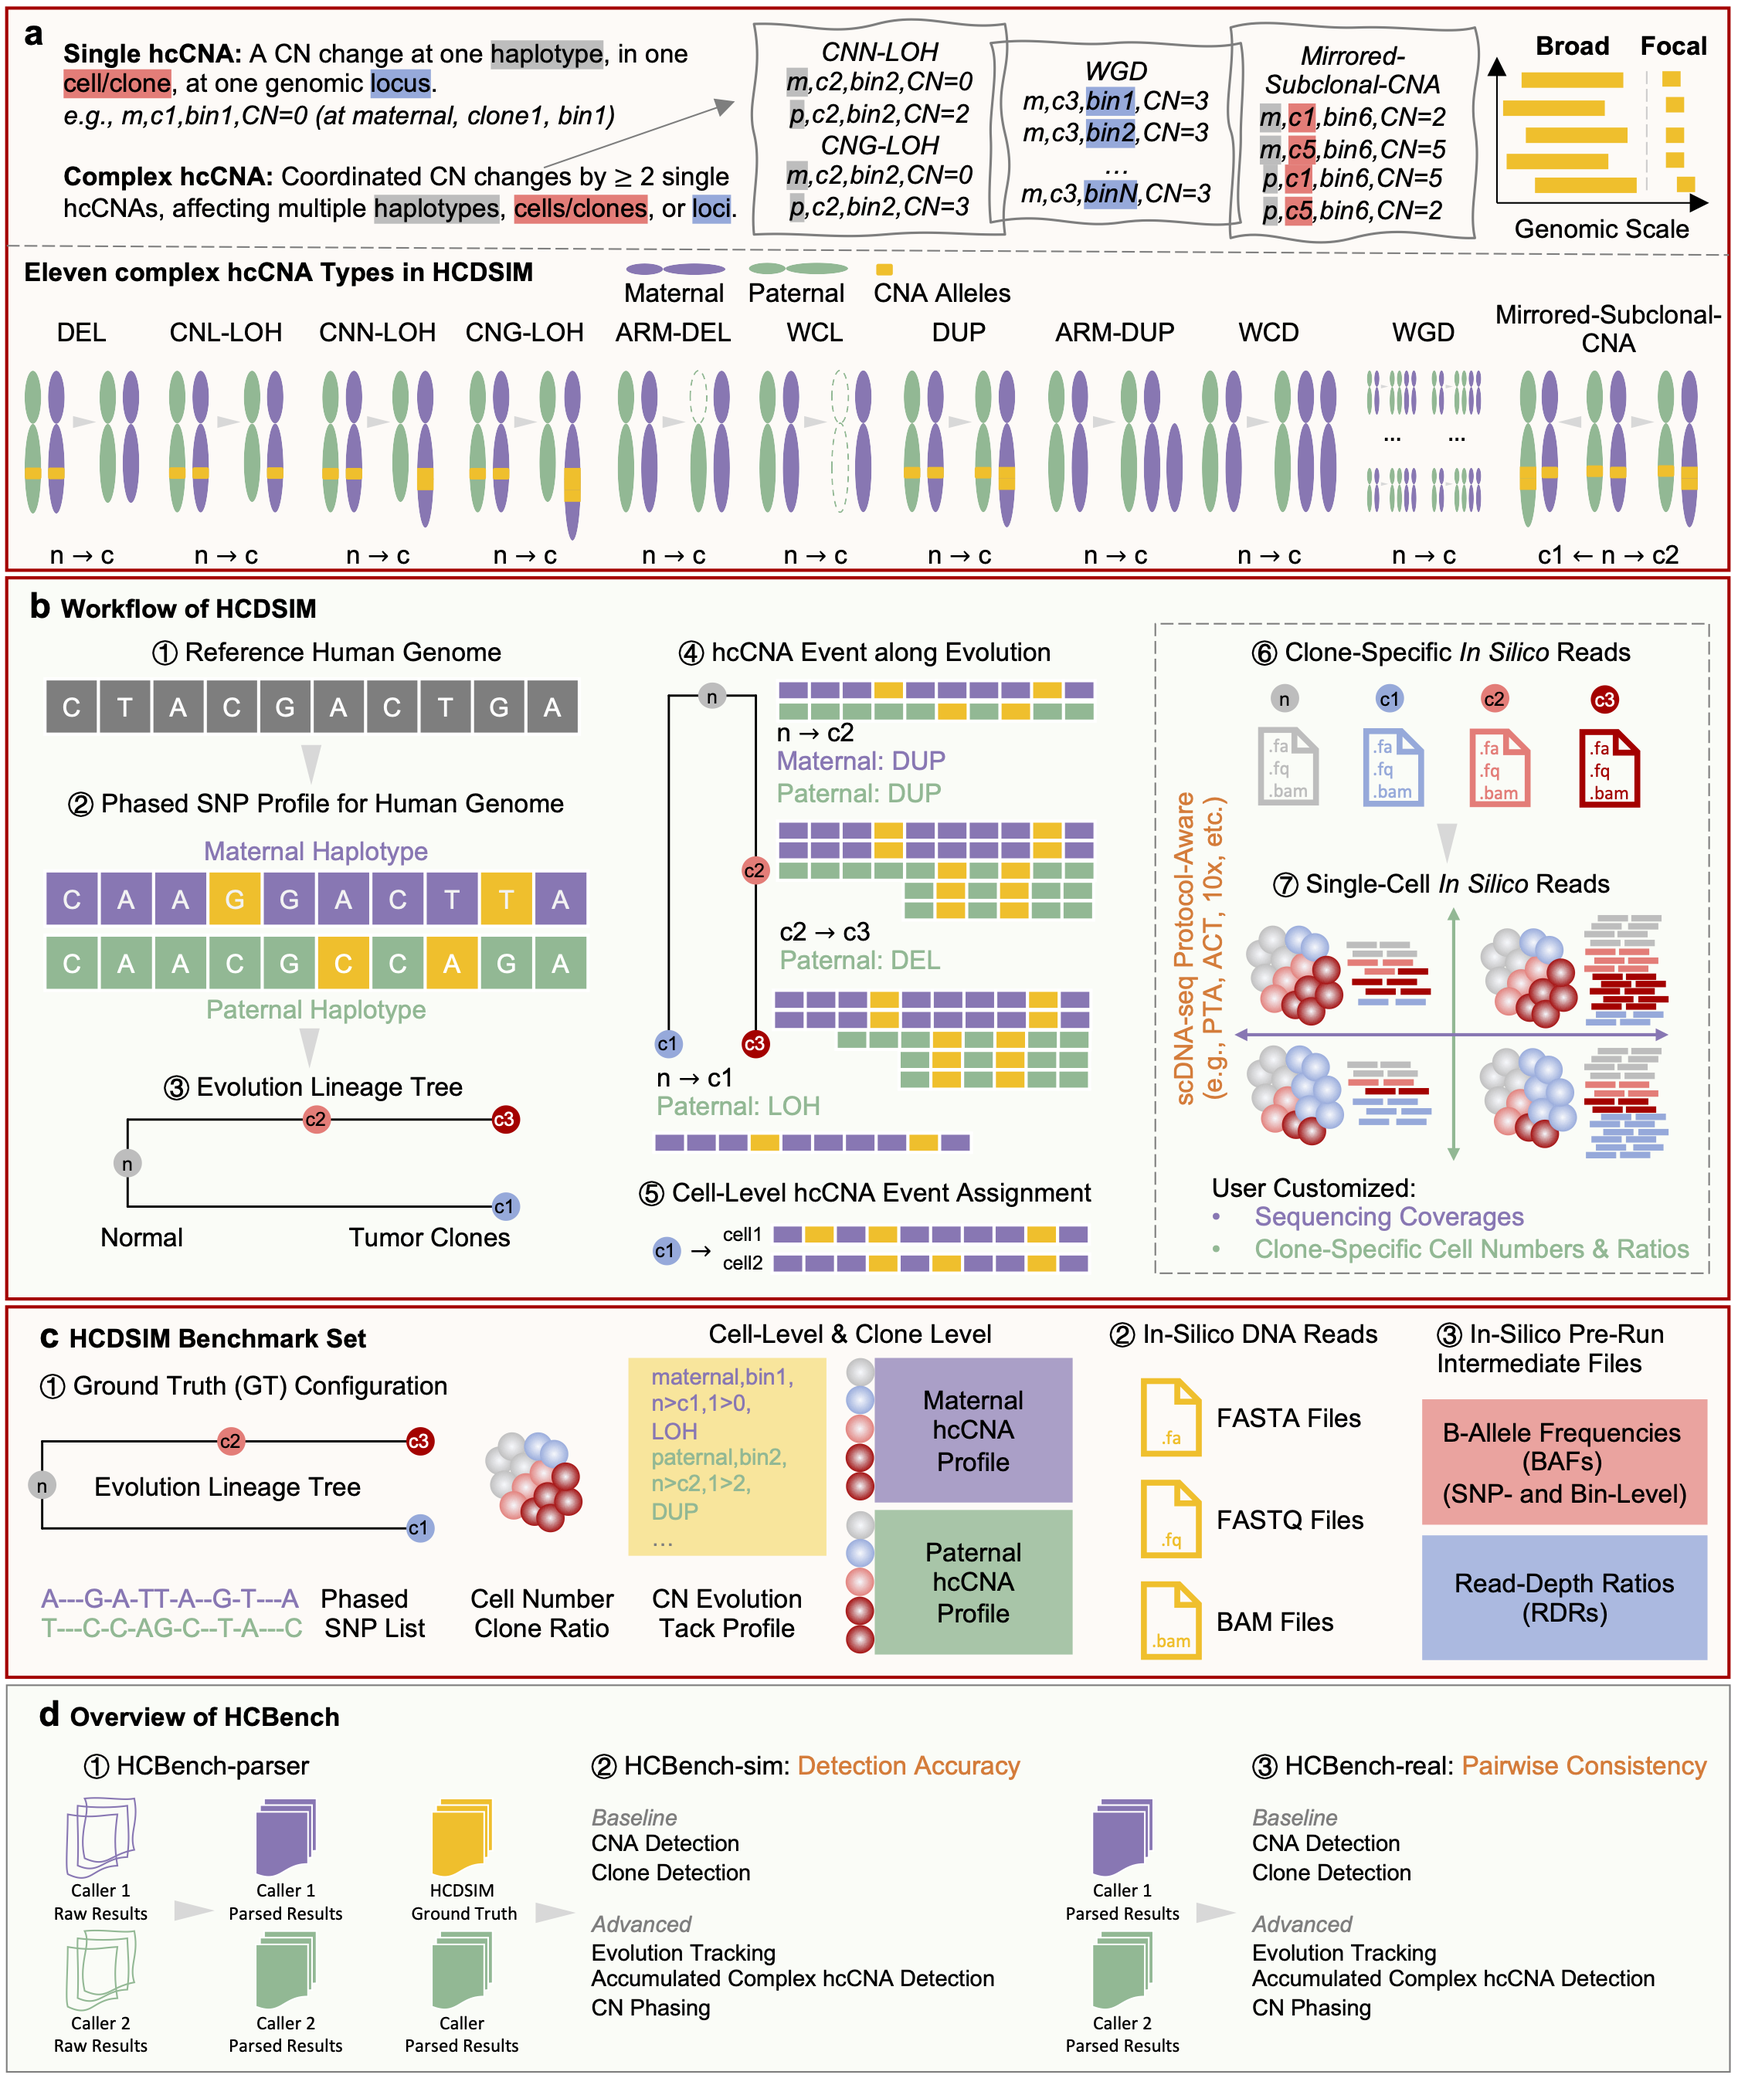
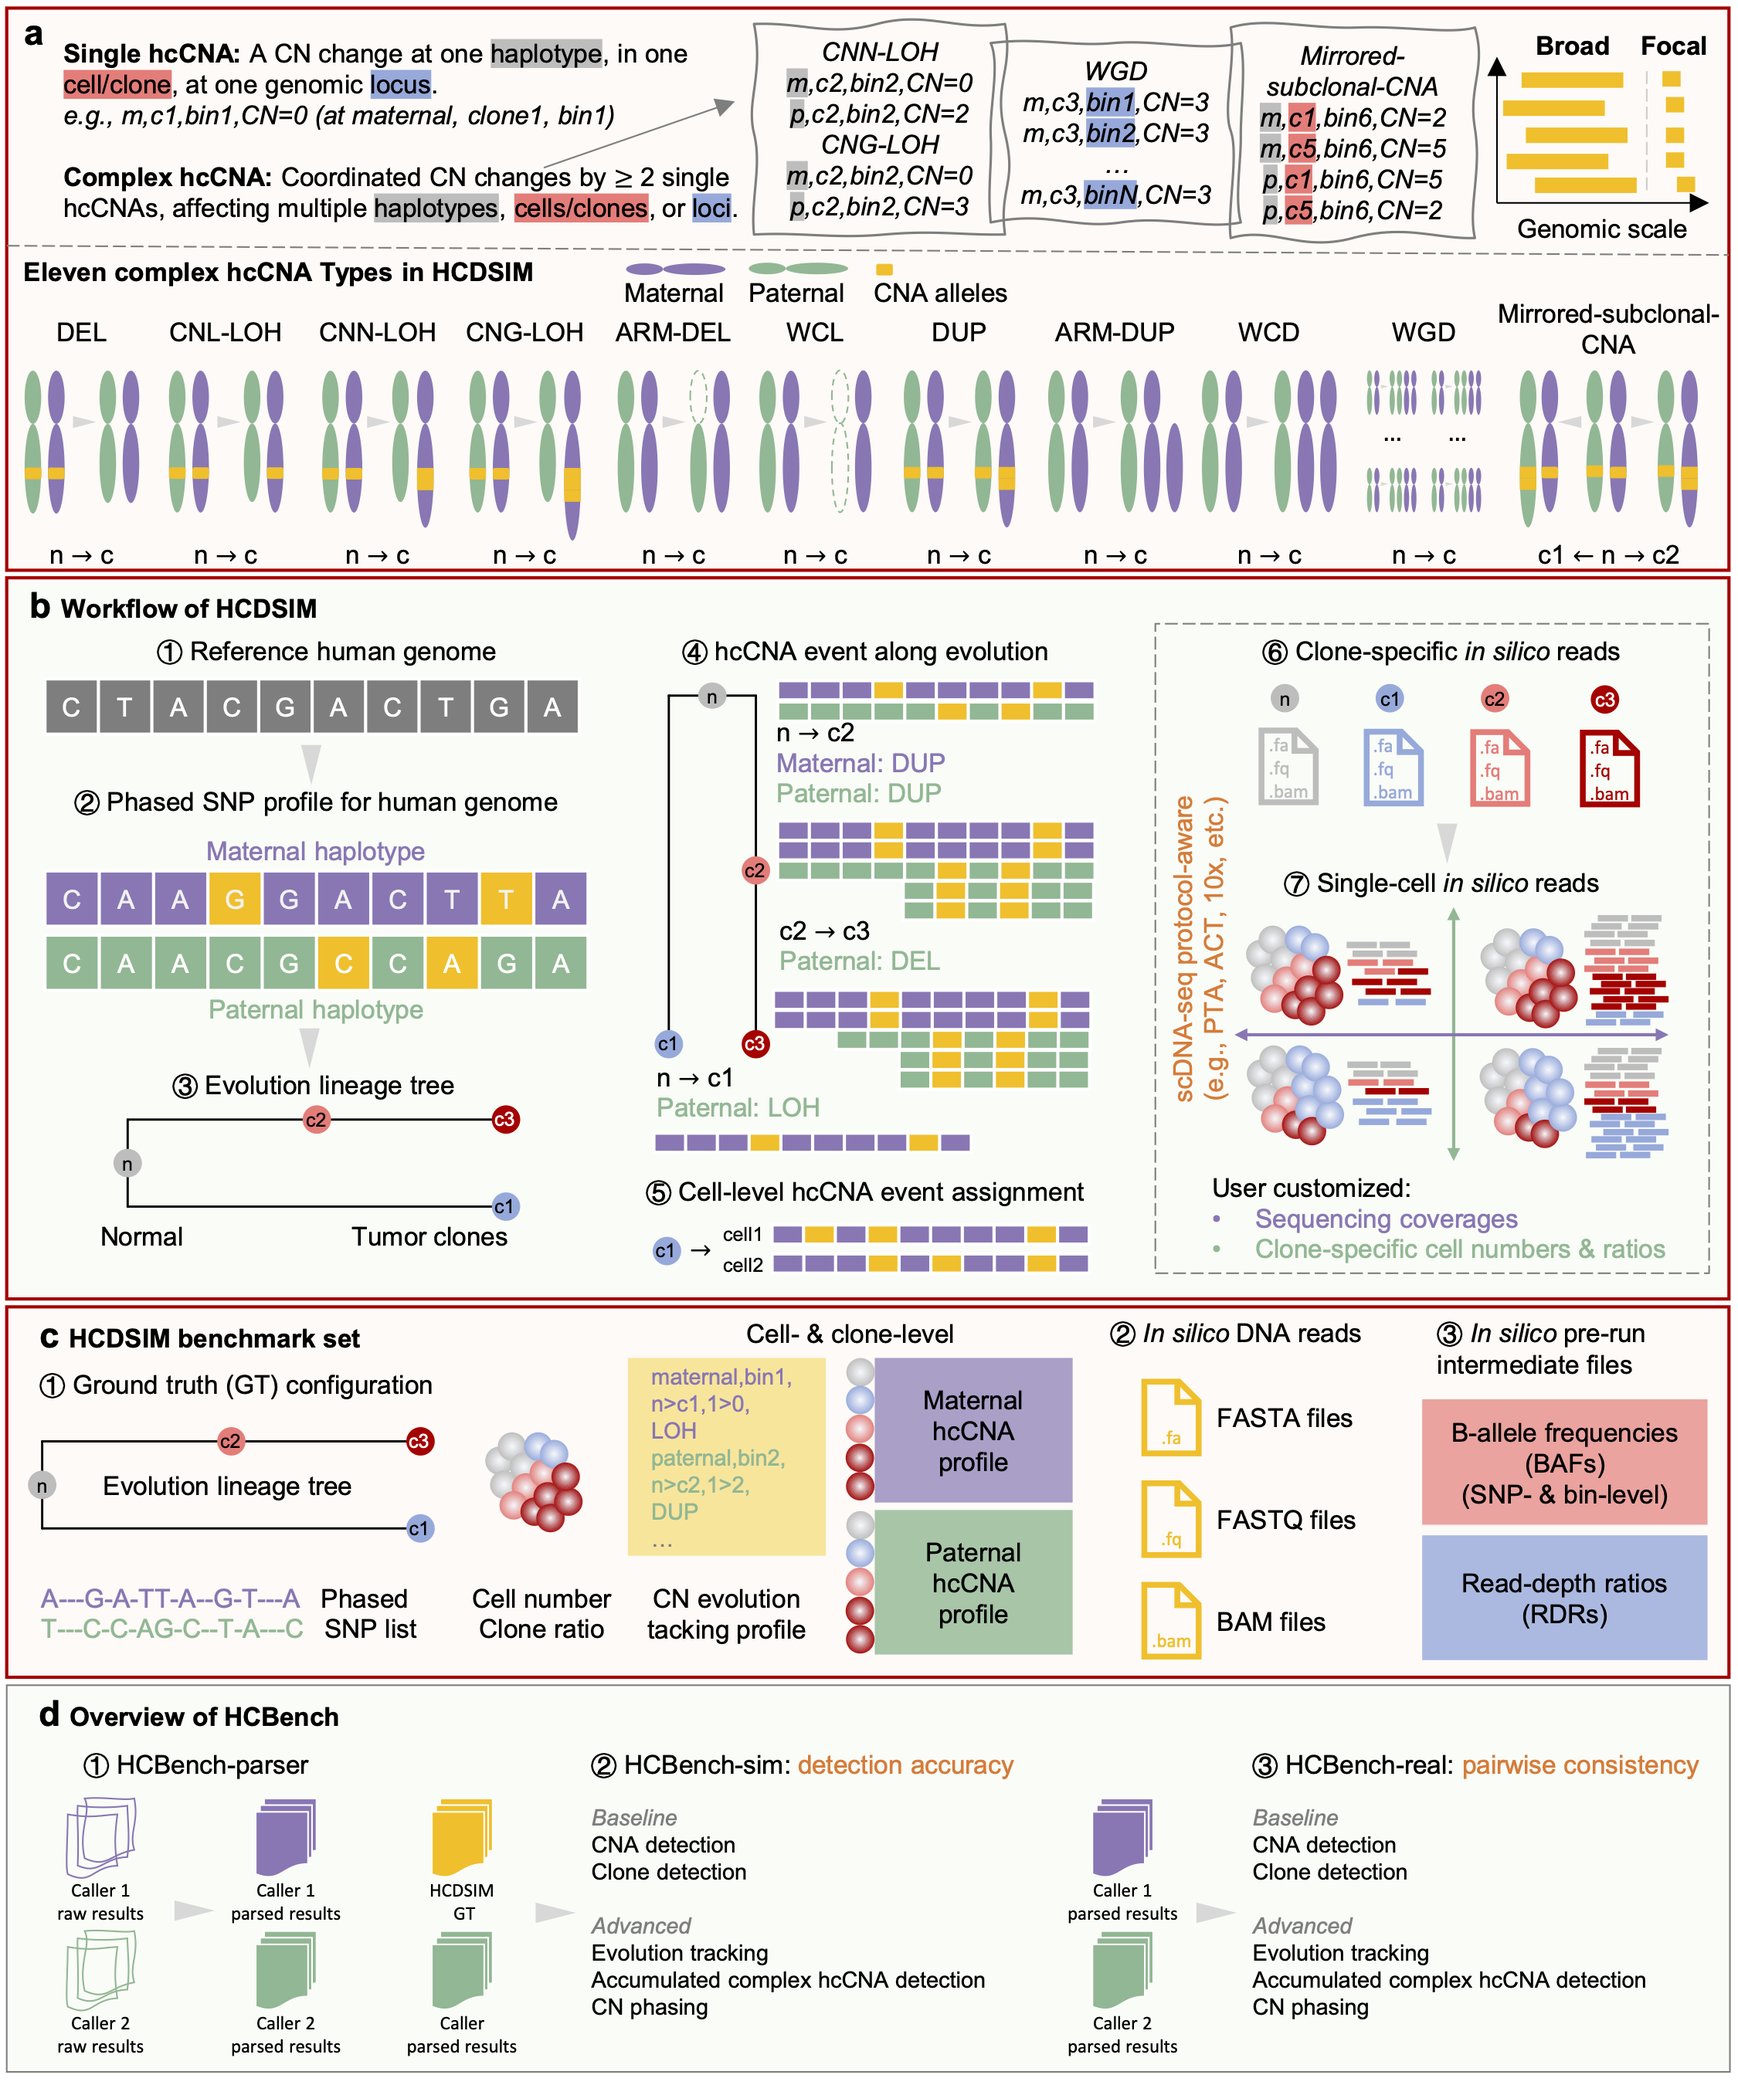
update readme

diff --git a/README.md b/README.md
@@ -1,19 +1,136 @@
-[![Stars](https://img.shields.io/github/stars/xikanfeng2/hcdsim?logo=GitHub&color=yellow)](https://github.com/xikanfeng2/hcdsim/stargazers)
-[![PyPI](https://img.shields.io/pypi/v/hcdsim?logo=PyPI)](https://pypi.org/project/hcdsim/)
-[![Downloads](https://static.pepy.tech/badge/hcdsim)](https://pepy.tech/project/hcdsim)
-[![Docs](https://readthedocs.org/projects/hcdsim/badge/)](https://hcdsim.readthedocs.io)
+<p align="left">
+  <a href="https://pypi.org/project/hcdsim/"><img src="https://img.shields.io/pypi/v/hcdsim" alt="PyPI"></a>
+  <a href="https://pepy.tech/project/hcdsim"><img src="https://static.pepy.tech/badge/hcdsim" alt="Downloads"></a>
+  <a href="https://hcdsim.readthedocs.io"><img src="https://readthedocs.org/projects/hcdsim/badge/?version=latest" alt="Docs"></a>
+  <!-- <a href="https://doi.org/10.5281/zenodo.23060387"><img src="https://zenodo.org/badge/DOI/10.5281/zenodo.23060387.svg" alt="DOI"></a> -->
+  <a href="https://github.com/BioThinkLab/HCDSIM/blob/main/LICENSE"><img src="https://img.shields.io/badge/license-MIT-blue.svg" alt="License: MIT"></a>
+  <a href="https://github.com/BioThinkLab/HCDSIM/stargazers"><img src="https://img.shields.io/github/stars/BioThinkLab/HCDSIM?style=social" alt="Stars"></a>
+</p>
 
-# HCDSIM: A Single-Cell Genomics Simulator with Haplotype- and Clone-Specific Copy Number Annotation.
+# HCDSIM
 
-HCDSIM: A Single-Cell Genomics Simulator with Haplotype- and Clone-Specific Copy Number Annotation. Read the full [documentation] here.
+**A Single-Cell Genomics Simulator with Haplotype- and Clone-Specific Copy Number Annotation**
 
-![HCDSIM Workflow](docs/images/HCDSIM_Figure1.png)
+HCDSIM simulates single-cell DNA sequencing (scDNA-seq) data with ground-truth (GT) **haplotype-, cell/clone-, and locus-specific copy number alterations (hcCNAs)**. It models **eleven complex hcCNA types** along a tumor clonal lineage tree, records when each event arises and how it is inherited, and outputs reads (FASTA/FASTQ/BAM) and intermediate files (phased SNPs, BAFs, RDRs) in the formats that existing hcCNA callers take as input.
 
-<!-- ## Citation
+Together with its companion benchmarking framework **[HCBench](https://github.com/compbioclub/HCBench)**, HCDSIM provides a foundation for developing and evaluating hcCNA callers.
 
-If you use `hcdsim` in your work, please cite the `hcdsim` publication as follows:
+![HCDSIM and HCBench overview](docs/images/HCDSIM_Figure1.png)
 
-> to do -->
+## Key features
 
+- 🧬 **Eleven complex hcCNA types**, covering
+  - *CN loss*: DEL, CNL-LOH, CNN-LOH, CNG-LOH, ARM-DEL, WCL
+  - *CN gain*: DUP, ARM-DUP, WCD, WGD
+  - *Mirror-like*: mirrored-subclonal-CNA (reciprocal CN swaps between haplotypes across clones)
+  - at focal (< 3 Mb), medium (3–10 Mb), and broad (> 10 Mb) scales
+- 🌳 **Clonal evolution**: lineage trees built with a beta splitting model (tunable from balanced to comb-like trees), with three clone-size allocation modes: *uniform*, *ancestral dominance*, and *evolved dominance*
+- ⏱ **Event onset tracking**: time-stamped logs of where each complex hcCNA first appears and whether descendant clones inherit it
+- 👥 **Intra-clonal heterogeneity**: optional cell-specific private events (DEL, LOH, DUP) on top of the clone profile
+- 📈 **Protocol-aware coverage bias**: coverage non-uniformity controlled by Lorenz-curve parameters to mimic PTA, ACT, 10x Genomics, and other protocols
+- 📦 **Caller-ready outputs**: phased germline SNPs, normal cells, FASTQ, clone-level, cell-level, and barcoded BAMs, plus SNP- and bin-level BAFs and RDRs. These are the inputs required by CHISEL, Alleloscope, SIGNALS, SEACON, and CNRein
+- ⚡ **Lightweight intermediate files**: start developing a caller from BAF/RDR matrices without heavy FASTQ/BAM processing
 
-[documentation]: https://hcdsim.readthedocs.io
+## Installation
+
+```bash
+pip install hcdsim
+```
+
+HCDSIM calls the following external tools, which must be available in your `PATH`:
+
+- [wgsim](https://github.com/lh3/wgsim) (tested with v1.13)
+- [BWA](https://github.com/lh3/bwa) (tested with v0.7.17)
+- [samtools](https://github.com/samtools/samtools)
+
+<!-- TODO: confirm the dependency list and Python version requirement -->
+
+## Quick start
+
+Run the full pipeline:
+
+```python
+from hcdsim import HCDSIM
+
+sim = HCDSIM(ref_genome='hg38.fa', clone_no=10, cell_no=100, outdir='./demo')
+sim.sim()
+```
+
+or from the command line with `hcdsim sim` (see `hcdsim sim --help`).
+
+See the [documentation and tutorials](https://hcdsim.readthedocs.io) for full usage.
+
+## Benchmarking with HCBench
+
+**[HCBench](https://github.com/compbioclub/HCBench)** ([tutorials](https://compbioclub.github.io/HCBench)) is a standardized framework for benchmarking single-cell allele-specific (acCNA) and haplotype-specific (hcCNA) callers. It has three modules:
+
+- **HCBench-parser**: converts raw caller outputs (CHISEL, Alleloscope, SIGNALS, SEACON, CNRein, ...) into standardized read-count/RDR/BAF matrices, acCNA/hcCNA profiles, cell- and clone-level profiles, and clone labels
+- **HCBench-sim**: scores callers against HCDSIM ground truth
+- **HCBench-real**: measures pairwise consistency between callers, and fit to observed read depth and allelic signal, on real data without ground truth
+
+Both evaluation modules cover five perspectives (20 evaluation questions):
+**CNA detection** · **clone detection** · **evolution tracking** · **accumulated complex hcCNA detection** · **CN phasing**
+
+### Benchmark datasets
+
+| Dataset | Design |
+|---|---|
+| **hcCNA-bench** | 10 clones (1 normal + 9 tumor), 1,000 cells, evolved dominance, coverages 0.01x / 0.02x / 0.05x / 0.1x / 0.2x |
+| **hcCNA-bench-tree** | 5 datasets at 0.02x, 1,000 cells: 10-clone and 6-clone trees under uniform, ancestral, and evolved dominance modes |
+
+All simulated datasets, including GT haplotype- and clone-specific CN profiles and single-cell reads, are available on Zenodo: [10.5281/zenodo.21167430](https://doi.org/10.5281/zenodo.21167430).
+
+## Citation
+
+> 📝 The manuscript is currently under review. This section will be updated once it is published.
+
+If you use HCDSIM, HCBench, or the hcCNA-bench datasets, please cite:
+
+```bibtex
+@article{feng2026hcdsim,
+  title   = {Benchmarking of haplotype- and clone-specific detection callers of complex copy number alterations in single-cell DNA-sequencing with HCDSIM and HCBench},
+  author  = {Feng, Xikang and Jiang, Anna and Peng, Sisi and Jin, Qiangguo and He, Liang and Chen, Lingxi},
+  journal = {TBD},
+  year    = {2026},
+  doi     = {TBD}
+}
+```
+
+Software and data archives:
+
+```bibtex
+@software{hcdsim_zenodo,
+  author    = {Feng, Xikang and Jiang, Anna and Peng, Sisi and Jin, Qiangguo and He, Liang and Chen, Lingxi},
+  title     = {HCDSIM: A single-cell genomics simulator with haplotype- and clone-specific copy number annotation},
+  year      = {2026},
+  publisher = {Zenodo},
+  doi       = {10.5281/zenodo.23060387}
+}
+
+@software{hcbench_zenodo,
+  author    = {Feng, Xikang and Jiang, Anna and Peng, Sisi and Jin, Qiangguo and He, Liang and Chen, Lingxi},
+  title     = {HCBench: A standardized benchmarking framework for single-cell haplotype- and clone-specific copy number alteration caller},
+  year      = {2026},
+  publisher = {Zenodo},
+  doi       = {10.5281/zenodo.23386948}
+}
+
+@dataset{hccnabench_zenodo,
+  author    = {Feng, Xikang and Jiang, Anna and Peng, Sisi and Jin, Qiangguo and He, Liang and Chen, Lingxi},
+  title     = {hcCNA-bench and hcCNA-bench-tree: Benchmark datasets for evaluating haplotype- and clone-specific detection of complex copy number alterations in single-cell DNA sequencing},
+  year      = {2026},
+  publisher = {Zenodo},
+  doi       = {10.5281/zenodo.21167430}
+}
+```
+
+## Contact
+
+- Xikang Feng: fxk@nwpu.edu.cn
+- Lingxi Chen: lingxi.chen@cityu.edu.hk
+
+Bug reports and feature requests are welcome via [GitHub Issues](https://github.com/BioThinkLab/HCDSIM/issues).
+
+## License
+
+HCDSIM is released under the [MIT License](LICENSE).
